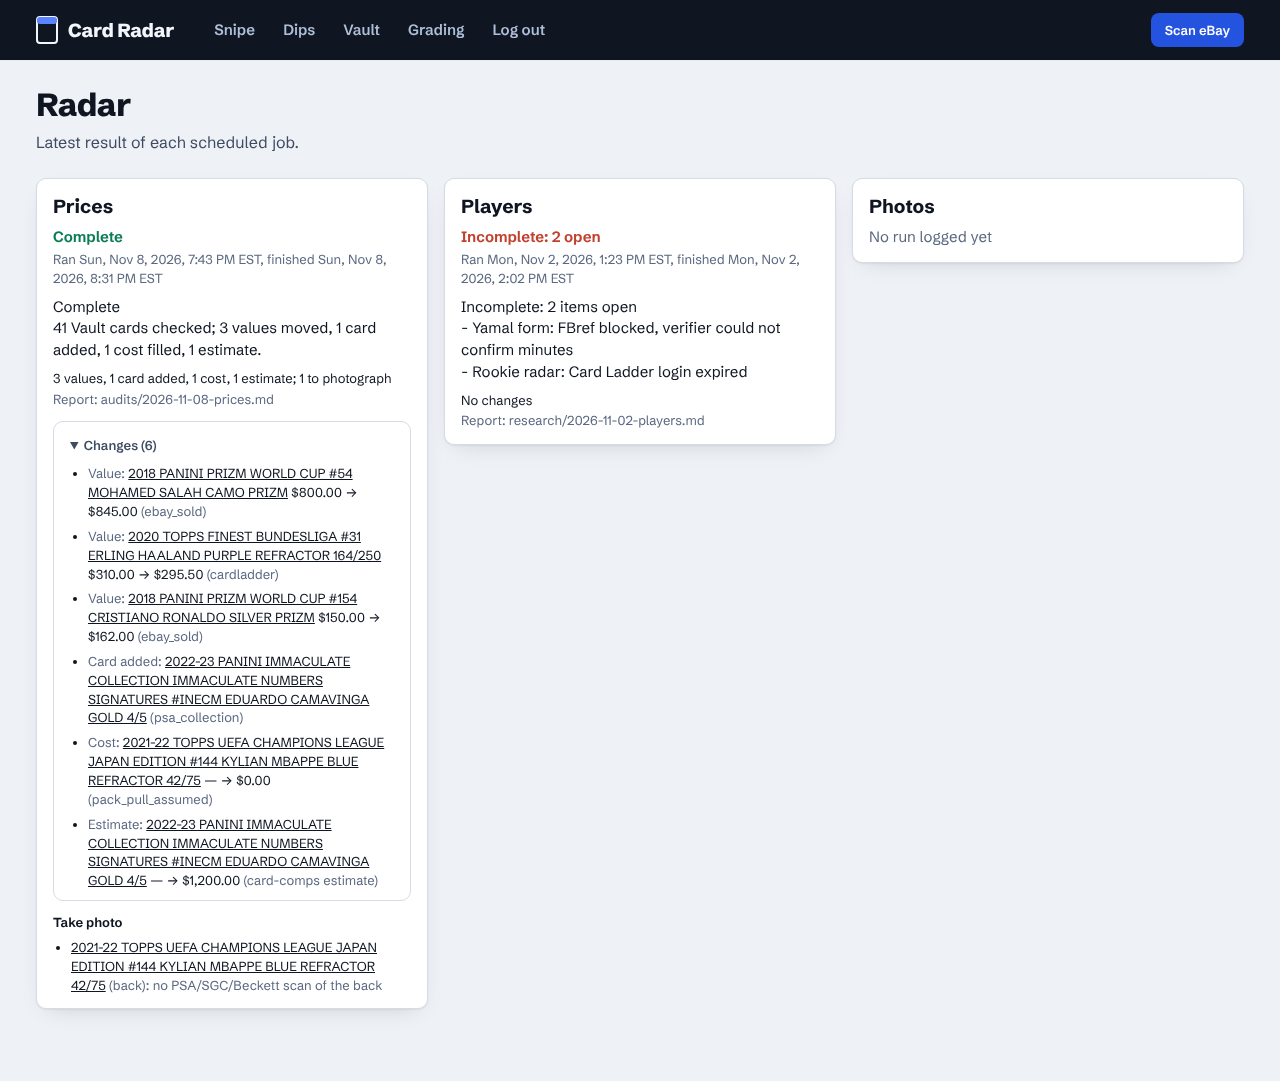
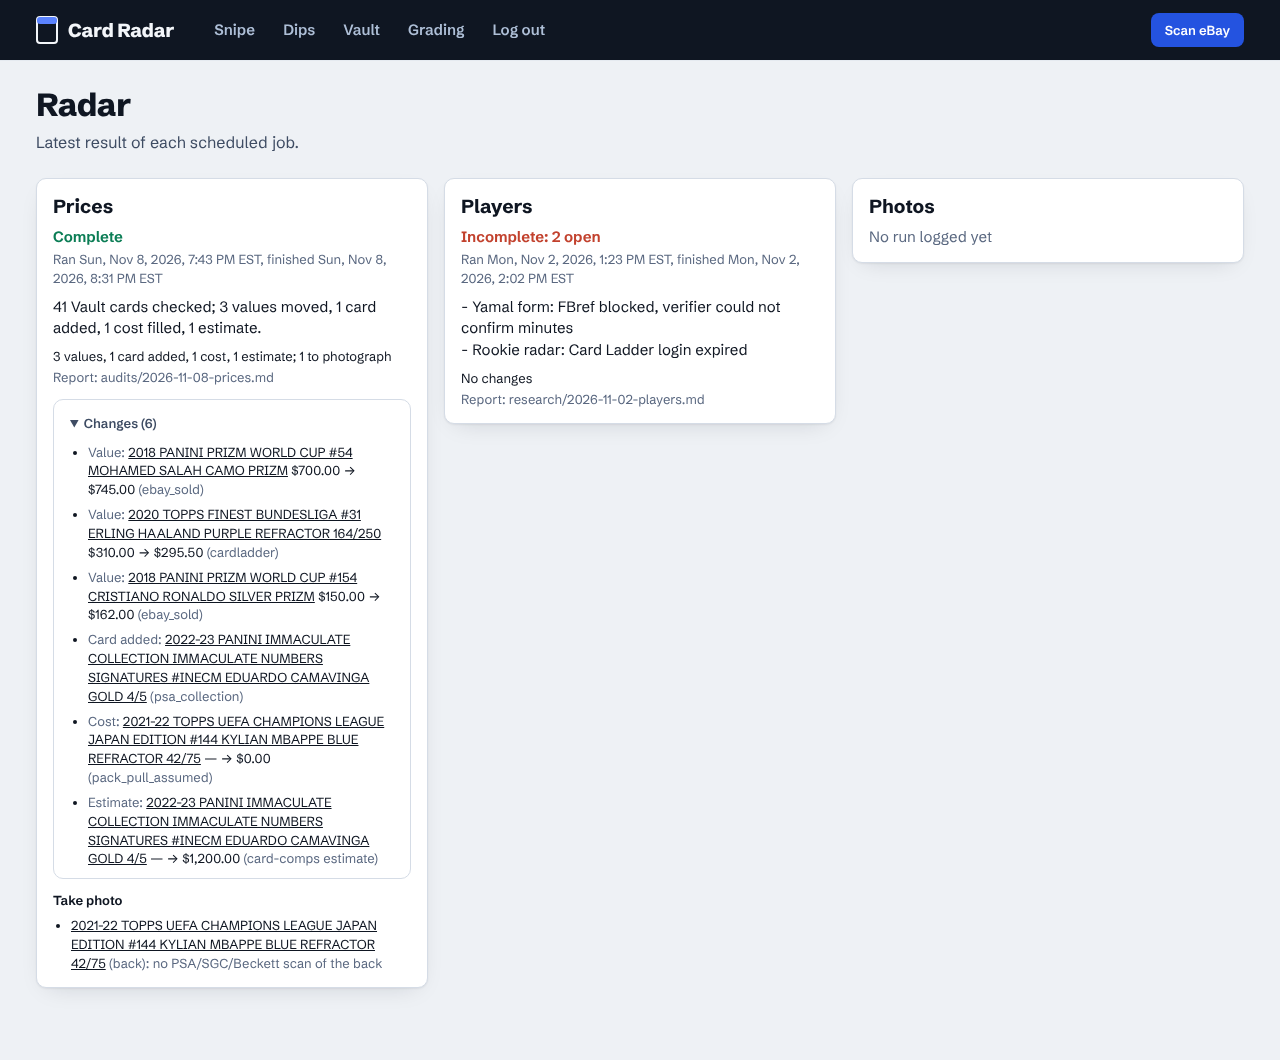
review(J): status line shown once; closing the drawer clears ?card=; drop cost-bearing drawer screenshots
- job-runs.ts: summaryBody() drops the summary's first line when it repeats the status line
  (Complete / Incomplete: N), keeps it when it disagrees with status/openCount; unit test added.
- collection-view.tsx: closing the drawer removes ?card= via history.replaceState (reload no longer reopens it).
- UAT: no Vault drawer screenshots (they showed the fixture's real cost basis/ledger); synthetic Salah value
  moved off his real cost; new checks for single status line and ?card= cleared; J3 home screenshots regenerated.

Claude-Session: https://claude.ai/code/session_018ZUH9edAfL4gQL3WiTpSKG

diff --git a/apps/dashboard/test/uat/j3.uat.js b/apps/dashboard/test/uat/j3.uat.js
@@ -19,9 +19,12 @@ const SALAH = 'a51916c1-5f83-510d-8fad-e34f161103d9';
     ok(r.status() === 200, `${name}: /collection?card=<id> 200`);
     const d = p.locator('[role=dialog]');
     ok((await d.count()) === 1 && /CAMO PRIZM/.test(await d.getAttribute('aria-label')), `${name}: J2 deep link opens the Salah Camo drawer`);
-    await p.screenshot({ path: `${SHOTS}/vault-deeplink-${name}.png` });
+    // No drawer screenshot: the Vault drawer shows the fixture's real costs (public repo).
     await p.click('[role=dialog] button[aria-label=Close]');
     ok((await p.locator('[role=dialog]').count()) === 0, `${name}: J2 drawer closes`);
+    ok(!new URL(p.url()).searchParams.has('card'), `${name}: J2 closing clears ?card= from the URL`);
+    await p.reload({ waitUntil: 'networkidle' });
+    ok((await p.locator('[role=dialog]').count()) === 0, `${name}: J2 reload after close keeps the drawer closed`);
     await p.goto(`${BASE}/collection?card=not-a-card`, { waitUntil: 'networkidle' });
     ok((await p.locator('[role=dialog]').count()) === 0 && (await p.locator('section[aria-label="Cards"] > button').count()) > 10, `${name}: J2 unknown id shows the normal grid`);
 
@@ -31,6 +34,7 @@ const SALAH = 'a51916c1-5f83-510d-8fad-e34f161103d9';
     const prices = p.locator('article[aria-label=Prices]'), players = p.locator('article[aria-label=Players]'), photos = p.locator('article[aria-label=Photos]');
     const pt = await prices.innerText();
     ok(/^Complete$/m.test(pt) && !/OLDER RUN/.test(pt), `${name}: Prices shows newest run, Complete`);
+    ok((pt.match(/^Complete$/gm) || []).length === 1 && /^41 Vault cards checked/m.test(pt), `${name}: status line shown once (summary's repeat dropped)`);
     ok(/Ran Sun, Nov 8, 2026, 7:43 PM EST/.test(pt), `${name}: run time in ET, absolute`);
     ok(/3 values, 1 card added, 1 cost, 1 estimate; 1 to photograph/.test(pt), `${name}: counts per kind`);
     ok(/Report: audits\/2026-11-08-prices\.md/.test(pt) && (await prices.locator('a[href*="claude.ai"]').count()) === 0, `${name}: reportPath as text`);
@@ -38,13 +42,14 @@ const SALAH = 'a51916c1-5f83-510d-8fad-e34f161103d9';
     ok(/Take photo/.test(pt) && /\(back\): no PSA\/SGC\/Beckett scan/.test(pt), `${name}: Take photo list shown`);
     const plt = await players.innerText();
     ok(/Incomplete: 2 open/.test(plt) && /FBref blocked/.test(plt) && !/Take photo/.test(plt), `${name}: Players incomplete, 2 open, no photo list`);
+    ok(!/Incomplete: 2 items open/.test(plt), `${name}: Players status line shown once (summary's repeat dropped)`);
     ok(/No run logged yet/.test(await photos.innerText()), `${name}: Photos "No run logged yet"`);
     ok((await p.locator('main button, main form, main input').count()) === 0, `${name}: no buttons/forms on the panel`);
     ok(await noOverflow(p), `${name}: no horizontal scroll (collapsed)`);
     await p.screenshot({ path: `${SHOTS}/home-collapsed-${name}.png`, fullPage: true });
     await prices.locator('summary').click();
     const changes = await prices.locator('details').innerText();
-    ok(/\$800\.00 → \$845\.00/.test(changes) && /ebay_sold/.test(changes), `${name}: value row shows old -> new with source`);
+    ok(/\$700\.00 → \$745\.00/.test(changes) && /ebay_sold/.test(changes), `${name}: value row shows old -> new with source`);
     ok(/— → \$0\.00/.test(changes) && /pack_pull_assumed/.test(changes), `${name}: cost row shows old -> new with source`);
     ok(await noOverflow(p), `${name}: no horizontal scroll (expanded)`);
     await p.screenshot({ path: `${SHOTS}/home-expanded-${name}.png`, fullPage: true });

diff --git a/apps/dashboard/src/lib/job-runs.ts b/apps/dashboard/src/lib/job-runs.ts
@@ -73,6 +73,18 @@ export function formatEt(iso: string | null | undefined): string {
   return Number.isNaN(t) ? "unknown time" : ET.format(new Date(t)).replace(/\s/g, " ");
 }
 
+/**
+ * Drops the summary's first line when it repeats the status line ("Complete" / "Incomplete: N items open").
+ * Kept when it disagrees with status/openCount, so a mismatch stays visible.
+ */
+export function summaryBody(summary: string, complete: boolean, open: number): string {
+  const [first = "", ...rest] = summary.split("\n");
+  const m = /^\s*(complete|incomplete)\s*(?::\s*(\d+)\b[^\n]*)?\s*$/i.exec(first);
+  if (!m) return summary;
+  const same = complete ? m[1]!.toLowerCase() === "complete" && !m[2] : m[1]!.toLowerCase() === "incomplete" && Number(m[2]) === open;
+  return same ? rest.join("\n").replace(/^\s*\n/, "") : summary;
+}
+
 function toView(r: JobRunRow): RunView {
   const [changes, badC] = parseList(r.changes, parseChange);
   const [photoList, badP] = parseList(r.photoList, parsePhoto);
@@ -81,7 +93,7 @@ function toView(r: JobRunRow): RunView {
   const open = Number(r.openCount) || 0;
   return {
     statusLine: complete ? "Complete" : `Incomplete: ${open} open`, complete,
-    summary: typeof r.summary === "string" ? r.summary : "", ranAt: r.ranAt, finishedAt: r.finishedAt ?? null,
+    summary: summaryBody(typeof r.summary === "string" ? r.summary : "", complete, open), ranAt: r.ranAt, finishedAt: r.finishedAt ?? null,
     reportPath: str(r.reportPath), changes, photoList, counts: countsLine(changes, unreadable), unreadable,
   };
 }

diff --git a/apps/dashboard/src/lib/job-runs.test.ts b/apps/dashboard/src/lib/job-runs.test.ts
@@ -1,6 +1,6 @@
 import { test } from "node:test";
 import assert from "node:assert/strict";
-import { latestRuns, formatEt, countsLine, type JobRunRow } from "./job-runs.ts";
+import { latestRuns, formatEt, countsLine, summaryBody, type JobRunRow } from "./job-runs.ts";
 
 const row = (o: Partial<JobRunRow>): JobRunRow => ({
   job: "prices", ranAt: "2026-11-09T00:43:00Z", finishedAt: null, status: "complete", openCount: 0,
@@ -30,6 +30,19 @@ test("status line", () => {
   const [p, pl] = latestRuns([row({}), row({ job: "players", status: "incomplete", openCount: 2 })]);
   assert.equal(p!.run!.statusLine, "Complete");
   assert.equal(pl!.run!.statusLine, "Incomplete: 2 open");
+});
+
+test("summary's first line is dropped when it repeats the status line, kept when it disagrees", () => {
+  const [p, pl] = latestRuns([
+    row({ summary: "Complete\n41 cards checked." }),
+    row({ job: "players", status: "incomplete", openCount: 2, summary: "Incomplete: 2 items open\n- a\n- b" }),
+  ]);
+  assert.equal(p!.run!.summary, "41 cards checked.");
+  assert.equal(pl!.run!.summary, "- a\n- b");
+  assert.equal(latestRuns([row({ summary: "Complete" })])[0]!.run!.summary, "");
+  assert.equal(summaryBody("Incomplete: 3 items open\n- a", false, 2), "Incomplete: 3 items open\n- a");
+  assert.equal(summaryBody("Incomplete: 1 open\n- a", true, 0), "Incomplete: 1 open\n- a");
+  assert.equal(summaryBody("Completed 41 checks", true, 0), "Completed 41 checks");
 });
 
 test("counts per kind from changes, plus photoList length", () => {

diff --git a/apps/dashboard/src/app/collection/collection-view.tsx b/apps/dashboard/src/app/collection/collection-view.tsx
@@ -37,6 +37,14 @@ export default function CollectionView({ cards, weeks, trends, openId }: Collect
   const [open, setOpen] = useState<CollectionCard | null>(() => (openId && cards.find((c) => c.id === openId)) || null);
   const [compsOpen, setCompsOpen] = useState(false);
   const [zoom, setZoom] = useState<{ src: string; x: number; y: number } | null>(null);
+  // J2: closing drops ?card= (replaceState, no new history entry) so a reload doesn't reopen a closed drawer.
+  const closeDrawer = () => {
+    setOpen(null);
+    const u = new URL(window.location.href);
+    if (!u.searchParams.has("card")) return;
+    u.searchParams.delete("card");
+    window.history.replaceState(window.history.state, "", u.pathname + u.search + u.hash);
+  };
 
   const players = useMemo(() => {
     const counts = new Map<string, number>();
@@ -169,7 +177,7 @@ export default function CollectionView({ cards, weeks, trends, openId }: Collect
 
       {zoom && <Zoom {...zoom} />}
       {compsOpen && <CompsPanel cards={cards} inView={list} onClose={() => setCompsOpen(false)} />}
-      {open && <Drawer card={open} series={trends[open.id]?.series ?? []} onClose={() => setOpen(null)} />}
+      {open && <Drawer card={open} series={trends[open.id]?.series ?? []} onClose={closeDrawer} />}
     </div>
   );
 }

diff --git a/apps/dashboard/test/uat/make-j3-fixture.js b/apps/dashboard/test/uat/make-j3-fixture.js
@@ -16,7 +16,7 @@ data.jobRuns = [
     summary: 'Complete\n41 Vault cards checked; 3 values moved, 1 card added, 1 cost filled, 1 estimate.',
     reportPath: 'audits/2026-11-08-prices.md',
     changes: [
-      { kind: 'value', ...card(SALAH), from: 800, to: 845, source: 'ebay_sold' },
+      { kind: 'value', ...card(SALAH), from: 700, to: 745, source: 'ebay_sold' },
       { kind: 'value', ...card(HAALAND), from: 310, to: 295.5, source: 'cardladder' },
       { kind: 'value', ...card(CR7), from: 150, to: 162, source: 'ebay_sold' },
       { kind: 'card_added', ...card(CAMA), source: 'psa_collection' },
